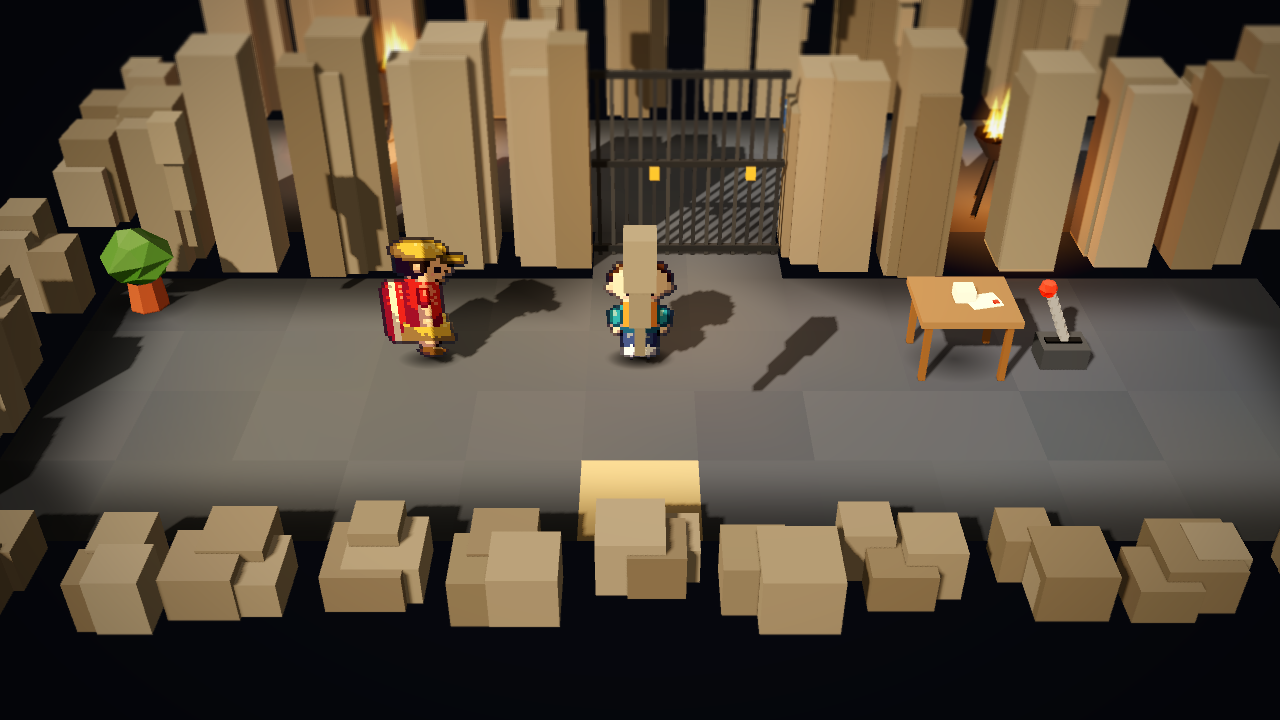
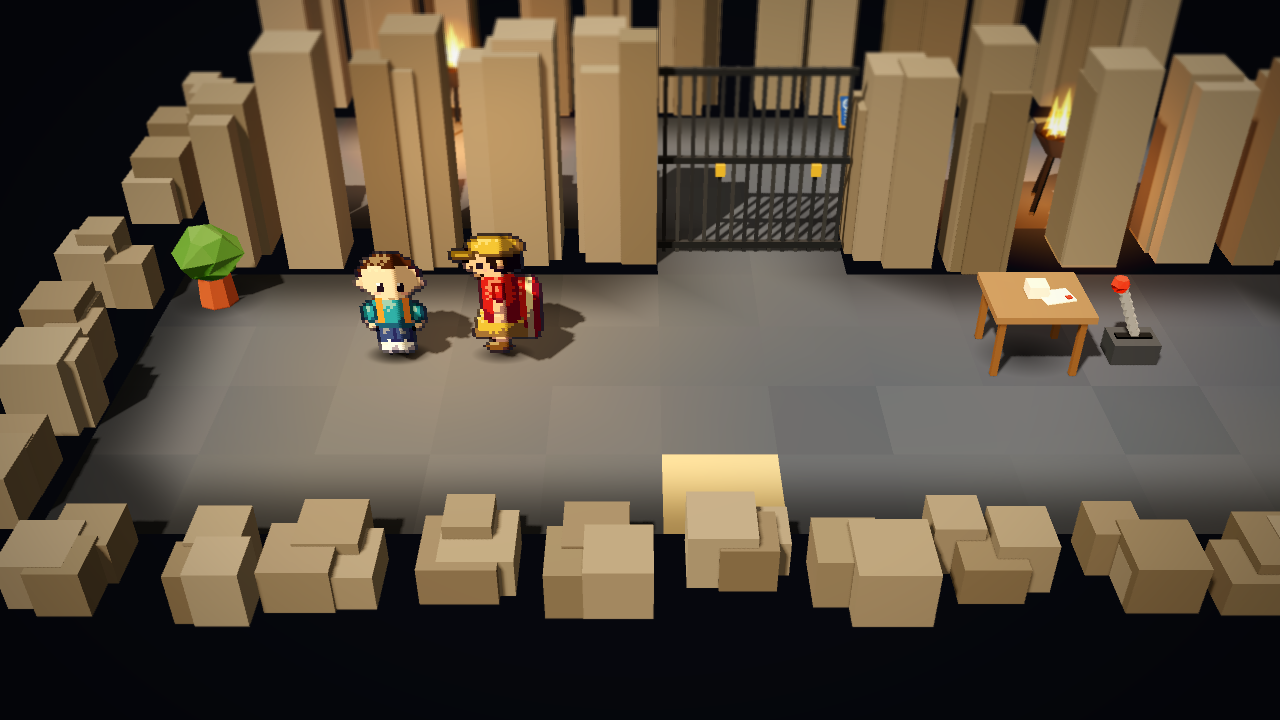
No stalactite in front of the Blue John gate: hanging cones only in dark caves, kept clear of gates and ways out
In the lit show-cave entrances (Blue John, Aillwee) a stalactite south of the gate and its hard brazier shadow read as a
beige post standing in front of the gate. The two-tile gates were already drawn as one gate.

Claude-Session: https://claude.ai/code/session_01RxdRQyoNPdS3Yb2zkKyXDT

diff --git a/docs/audit/w50_world.md b/docs/audit/w50_world.md
@@ -47,7 +47,9 @@ Data fixes in the deep zones:
 
 Cave rooms, for all 39 cave interiors (`ZoneBuilder.is_cave`): the rock wall in front of the camera is now a low
 rubble lip (as a plaster room has a low skirting there) and the side walls are lower, so the room and its gate can be
-seen; stalactites no longer hang in the two tiles in front of a prop, sign or person.
+seen. Stalactites hang only in the dark caves, and never in the three tiles in front of a prop, sign, person, gate or
+way out: in the lit show-cave entrances a hanging cone and its hard brazier shadow read as a post standing in front of
+the gate.
 
 ## 2. The checker
 
